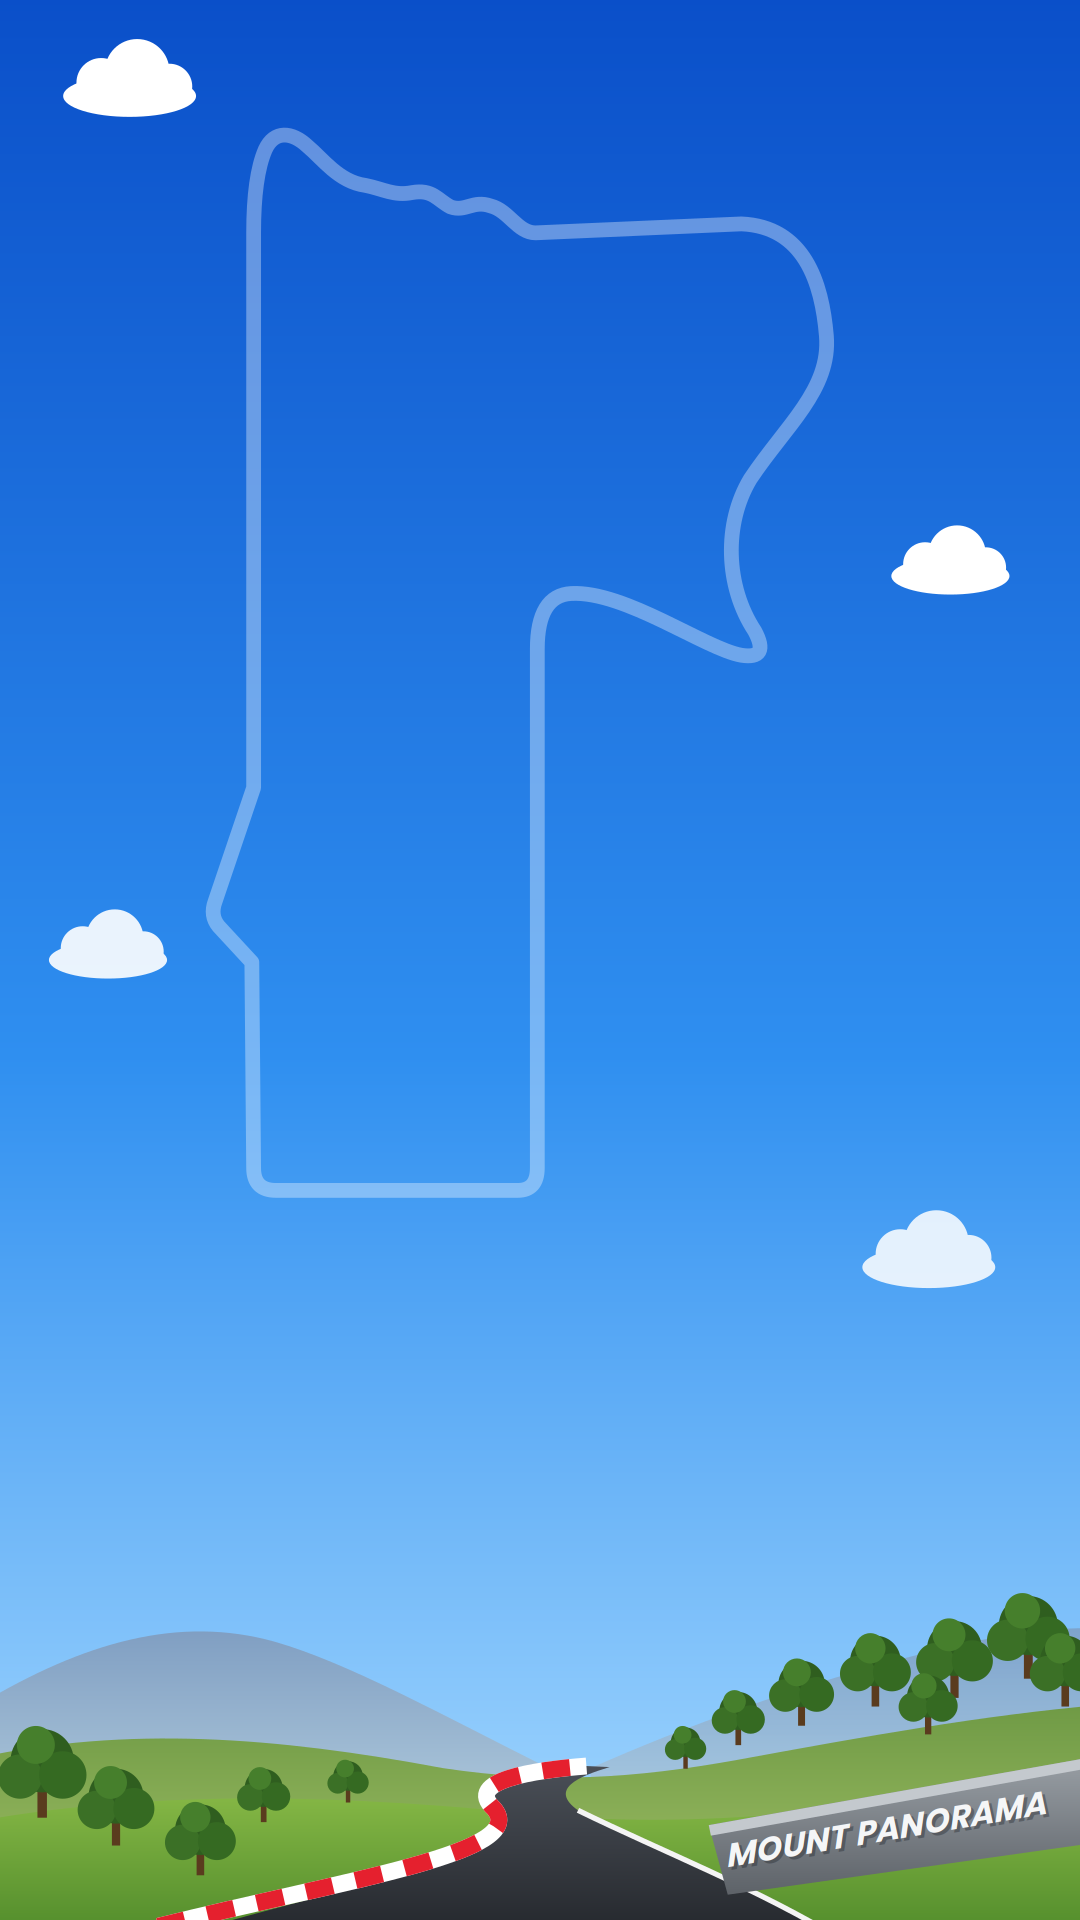
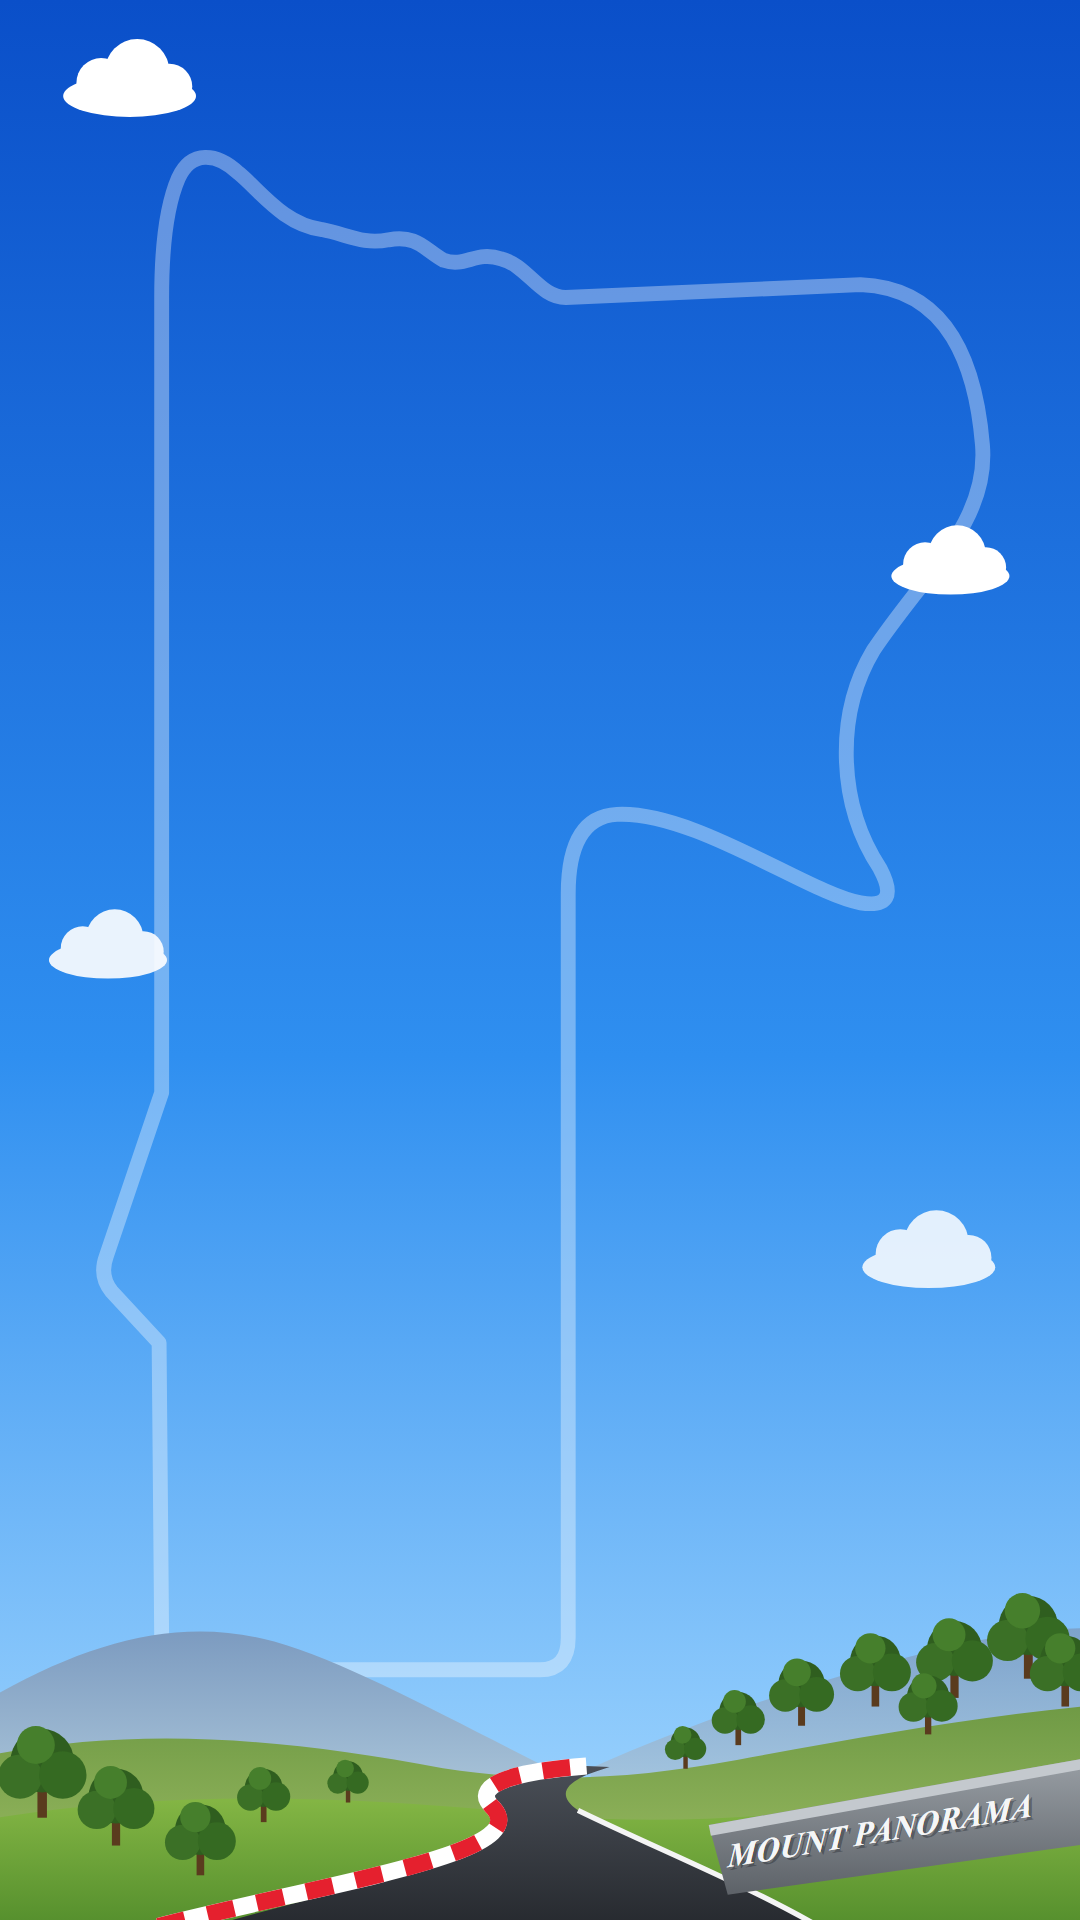
Make countdown panel translucent and enlarge background track
The main panel is now 40% opaque so the background art shows through it,
and the circuit outline in the portrait background is rescaled to span
most of the screen width.

diff --git a/src/RaceCountdown/Views/CountdownPage.xaml b/src/RaceCountdown/Views/CountdownPage.xaml
@@ -16,7 +16,7 @@
         <Style x:Key="Panel" TargetType="Border">
             <Setter Property="StrokeThickness" Value="0" />
             <Setter Property="StrokeShape" Value="RoundRectangle 14" />
-            <Setter Property="BackgroundColor" Value="{StaticResource DialNavy}" />
+            <Setter Property="BackgroundColor" Value="{StaticResource DialNavyTranslucent}" />
             <Setter Property="Padding" Value="16" />
             <Setter Property="Shadow">
                 <Shadow Brush="{StaticResource Ink}" Offset="0,6" Radius="16" Opacity="0.35" />

diff --git a/src/RaceCountdown/Resources/Styles/Colors.xaml b/src/RaceCountdown/Resources/Styles/Colors.xaml
@@ -18,6 +18,8 @@
     <Color x:Key="DialYellow">#FFC21F</Color>
     <Color x:Key="KerbRed">#E5202E</Color>
     <Color x:Key="GrassGreen">#4F8A2A</Color>
+    <!-- Dial navy at 40% opacity: the main panel, so the background art shows through. -->
+    <Color x:Key="DialNavyTranslucent">#66143A7A</Color>
     <!-- White at 85% for secondary text on dial-navy. -->
     <Color x:Key="OnNavyMuted">#D9FFFFFF</Color>
 
